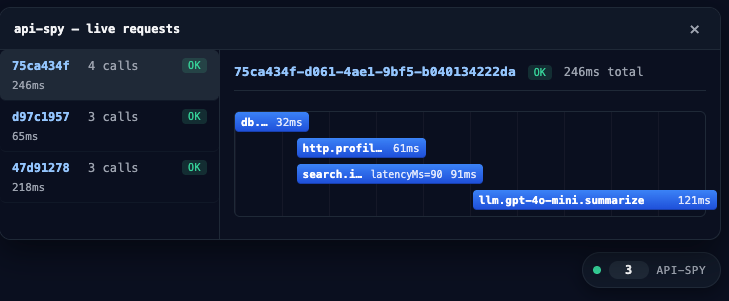
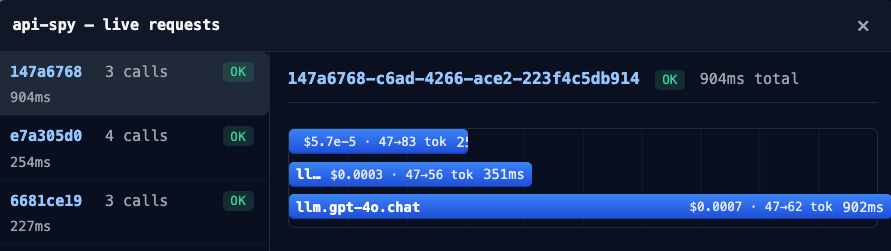
Update README and assets for improved clarity and functionality
- Enhanced README.md to better describe the API instrumentation capabilities and goals.
- Added a new example for instrumenting LLM calls in the server section.
- Updated the demo app to conditionally render the ApiSpyOverlay based on the environment.
- Removed legacy cost display logic from GanttChart component and corresponding styles.

This commit aims to improve documentation and streamline the user experience with the overlay component.

diff --git a/packages/api-spy-overlay-react/src/components/GanttChart.jsx b/packages/api-spy-overlay-react/src/components/GanttChart.jsx
@@ -4,20 +4,9 @@
 // Each bar's label is the query name + duration. If the query carries
 // api-spy metadata (e.g. tokensIn/tokensOut/costUsd for LLM calls), the
 // bar also shows the most useful summary: cost for LLM-style calls,
-// a compact "key=value" string otherwise. The total cost across the
-// request is shown in the header.
+// a compact "key=value" string otherwise.
 import React from 'react'
 import { computeGanttLayout } from '../lib/computeGanttLayout.js'
-
-// Sum cost across queries that have it. Treats missing cost as 0.
-function sumCost (queries) {
-  let total = 0
-  for (const q of queries || []) {
-    const c = q && q.metadata && q.metadata.costUsd
-    if (typeof c === 'number' && Number.isFinite(c)) total += c
-  }
-  return total
-}
 
 // Format a USD number compactly: $1.23, $0.0123, $0.000456, $1.2k
 function formatUsd (n) {
@@ -59,18 +48,11 @@ export function GanttChart ({ queries }) {
     return <div className="api-spy-gantt api-spy-gantt--empty">no queries yet</div>
   }
   const layout = computeGanttLayout({ queries })
-  const totalCost = sumCost(queries)
   // Build a lookup so we can attach each bar to its original query (for metadata).
   const byId = new Map((queries || []).map((q) => [q.id, q]))
 
   return (
     <div className="api-spy-gantt">
-      {totalCost > 0 && (
-        <div className="api-spy-gantt__cost-total">
-          <span className="api-spy-gantt__cost-label">total cost</span>
-          <span className="api-spy-gantt__cost-value">{formatUsd(totalCost)}</span>
-        </div>
-      )}
       <div className="api-spy-gantt__timeline" style={{ position: 'relative', height: `${layout.rows.length * 26}px` }}>
         {layout.rows.map((row, i) => {
           const q = byId.get(row.queryId) || {}

diff --git a/packages/api-spy-overlay-react/src/styles.css b/packages/api-spy-overlay-react/src/styles.css
@@ -168,18 +168,6 @@
 
 .api-spy-gantt { padding: 8px 0; }
 .api-spy-gantt--empty { color: #6b7280; font-style: italic; }
-.api-spy-gantt__cost-total {
-  display: flex;
-  align-items: baseline;
-  gap: 8px;
-  margin-bottom: 6px;
-  padding: 6px 10px;
-  background: rgba(251, 191, 36, 0.08);
-  border: 1px solid rgba(251, 191, 36, 0.25);
-  border-radius: 6px;
-}
-.api-spy-gantt__cost-label { color: #fbbf24; font-size: 10px; text-transform: uppercase; letter-spacing: 0.05em; }
-.api-spy-gantt__cost-value { color: #fde68a; font-size: 14px; font-weight: 700; }
 .api-spy-gantt__timeline {
   position: relative;
   background: linear-gradient(to right, rgba(255,255,255,0.04) 1px, transparent 1px) 0 0 / 10% 100%;

diff --git a/README.md b/README.md
@@ -6,11 +6,12 @@ Instrument the backend calls your API makes — DB, HTTP, LLM — and watch them
 
 ## What it is
 
-- An Express middleware + `track()` helper that records every call your handler makes.
+- An Express middleware + `track()` helper that allows you to instrument any call your server makes to external services. Database calls, HTTP calls, LLM calls, etc.
 - A React component (`<ApiSpyOverlay />`) that floats in the corner of the page and shows the call graph as it fills in.
-- A `/apiDebugger/:id` endpoint that returns the full call tree as JSON.
 
-The goal: know what the API is doing, without adding logging everywhere.
+The goal: Understand and visualize the calls your API makes so that you can diagnose performance issues and improve the overall health of your API.
+
+![api-spy overlay](./api-spy-overlay.png)
 
 ## Install
 
@@ -18,19 +19,113 @@ The goal: know what the API is doing, without adding logging everywhere.
 npm install api-spy api-spy-overlay-react ws
 ```
 
-`ws` is an optional peer dep — only needed if you want the live overlay. The debugger endpoint works without it.
+`ws` is only needed for the live overlay. If you only want the JSON debugger endpoint, skip it.
 
 ## Usage
 
-### Server — instrument a route
+### Server — instrument a database call
 
 ```js
 import express from "express";
 import * as apiSpy from "api-spy";
 
 const app = express();
-app.use(apiSpy.expressMiddleware()); // open a request context
-apiSpy.wsHandler({ path: "/api/v1/apiSpyControl" }); // optional, for the overlay
+app.use(apiSpy.expressMiddleware());
+
+app.get("/users/:id", async (req, res) => {
+  const user = await apiSpy.track(
+    "db.users.findById",
+    () => db.findUser(req.params.id),
+    { metadata: { table: "users", id: req.params.id } },
+  );
+  res.json(user);
+});
+
+app.listen(3000);
+```
+
+### Server — instrumenting LLM calls
+
+```js
+const model = "gpt-4o";
+const summary = await apiSpy.track(
+  "llm.example",
+  () =>
+    openai.chat.completions.create({
+      model: model,
+      messages: [{ role: "user", content: `Summarize: ${text}` }],
+    }),
+  {
+    metadata: { provider: "openai", model: model },
+    onResult: (r) => ({
+      tokensIn: r.usage.prompt_tokens,
+      tokensOut: r.usage.completion_tokens,
+      costUsd: llmCost(model, r.usage.prompt_tokens, r.usage.completion_tokens),
+    }),
+  },
+);
+```
+
+### Server - When a closure won't cut it (`start` / `end`)
+
+When a closure won't cut it — streaming responses, event emitters, multi-statement blocks — use `start()` and `end()` instead of `track()`:
+
+```js
+const qId = apiSpy.start("db.users.findById", {
+  metadata: { table: "users", id: req.params.id },
+});
+try {
+  const user = await db.findUser(req.params.id);
+  apiSpy.end(qId, { metadata: { rowCount: 1 } });
+  res.json(user);
+} catch (err) {
+  apiSpy.end(qId, { error: err });
+  throw err;
+}
+```
+
+`start(name, opts?)` opens a query and returns an id. `end(id, opts?)` closes it. The same opts shape as `track()` — `metadata` on both sides, `error` on `end`. Records look identical on the wire regardless of which API you use.
+
+For full control over the request context itself, there's also `startRequest()` / `endRequest()` as an alternative to `expressMiddleware()` or `run()`.
+
+### Client — mount the overlay
+
+```jsx
+import { ApiSpyOverlay } from "api-spy-overlay-react";
+import "api-spy-overlay-react/styles.css";
+
+export function App() {
+  return (
+    <>
+      <YourStuff />
+      {process.env.NODE_ENV !== "production" && (
+        <ApiSpyOverlay position="bottom-right" />
+      )}
+    </>
+  );
+}
+```
+
+## Advanced
+
+### Live overlay: wire up WebSocket
+
+The overlay streams data over a WebSocket. You need the `ws` package installed and a small change to how you create the server:
+
+```js
+import express from "express";
+import { createServer } from "node:http";
+import * as apiSpy from "api-spy";
+
+const app = express();
+app.use(apiSpy.expressMiddleware());
+
+// `wsHandler()` returns a function that takes the http.Server.
+// WebSocket upgrades bypass Express middleware, so this sits on
+// the raw http.Server instead.
+const server = createServer(app);
+apiSpy.wsHandler({ path: "/api/v1/apiSpyControl" })(server);
+server.listen(3000);
 
 app.get("/users/:id", async (req, res) => {
   const user = await apiSpy.track(
@@ -42,22 +137,41 @@ app.get("/users/:id", async (req, res) => {
 });
 ```
 
-### Client — mount the overlay
+Swap `app.listen(3000)` for `createServer(app)` + `wsHandler({ path })(server)` + `server.listen(3000)` — that's it.
 
-```jsx
-import { ApiSpyOverlay } from "api-spy-overlay-react";
+### Custom WebSocket path
 
-export function App() {
-  return (
-    <>
-      <YourStuff />
-      <ApiSpyOverlay position="bottom-right" />
-    </>
-  );
-}
+The default WS path is `/api/v1/apiSpyControl`. If you need something different, pass `path` to both the server and the overlay:
+
+```js
+// server
+apiSpy.wsHandler({ path: "/ws/debug" })(server);
 ```
 
-Hit a route and the overlay fills in the Gantt chart for that request in real time.
+```jsx
+// client
+<ApiSpyOverlay path="/ws/debug" />
+```
+
+### `track()` options
+
+`track(name, fn, opts?)` accepts these options:
+
+| Option     | Type                 | Description                                                                                                                                                                            |
+| ---------- | -------------------- | -------------------------------------------------------------------------------------------------------------------------------------------------------------------------------------- |
+| `metadata` | `object`             | Arbitrary key-value data attached to the query record. Use for tags like `table`, `host`, or `model`.                                                                                  |
+| `onResult` | `(result) => object` | Called with the return value of `fn`. Return an object of fields to merge into the query's metadata — useful for extracting `tokensIn`, `tokensOut`, and `costUsd` from LLM responses. |
+
+## Troubleshooting
+
+**I don't see the glyph.**
+Check that the CSS import is present and that `NODE_ENV` isn't set to `production`. Open the browser devtools and look for a `<div class="api-spy-root">` in the DOM.
+
+**No requests show up when I click the glyph.**
+Open the Network tab and filter for `WS`. You should see an open WebSocket connection to `/api/v1/apiSpyControl`. If the connection is failing or missing, verify that `wsHandler()` is being called _with_ the `http.Server` instance — the most common mistake is `wsHandler({ path })` without the `(server)` invocation.
+
+**The WebSocket connection is failing.**
+Make sure `ws` is installed (`npm ls ws`). If you're behind a proxy, the upgrade may be blocked — try connecting directly to the server's origin.
 
 ## Demo
 
@@ -70,9 +184,6 @@ npm run dev
 Then open the printed Vite URL. The page has buttons for serial, parallel, nested, slow, errored, and LLM fan-out scenarios.
 
 ## Contributing
-
-- `specs/001-phase1-sdk-foundation/spec.md` — SDK contract.
-- `specs/003-overlay/spec.md` — overlay + WebSocket contract.
 
 PRs that touch the public API need a test under `tests/contract/`.
 